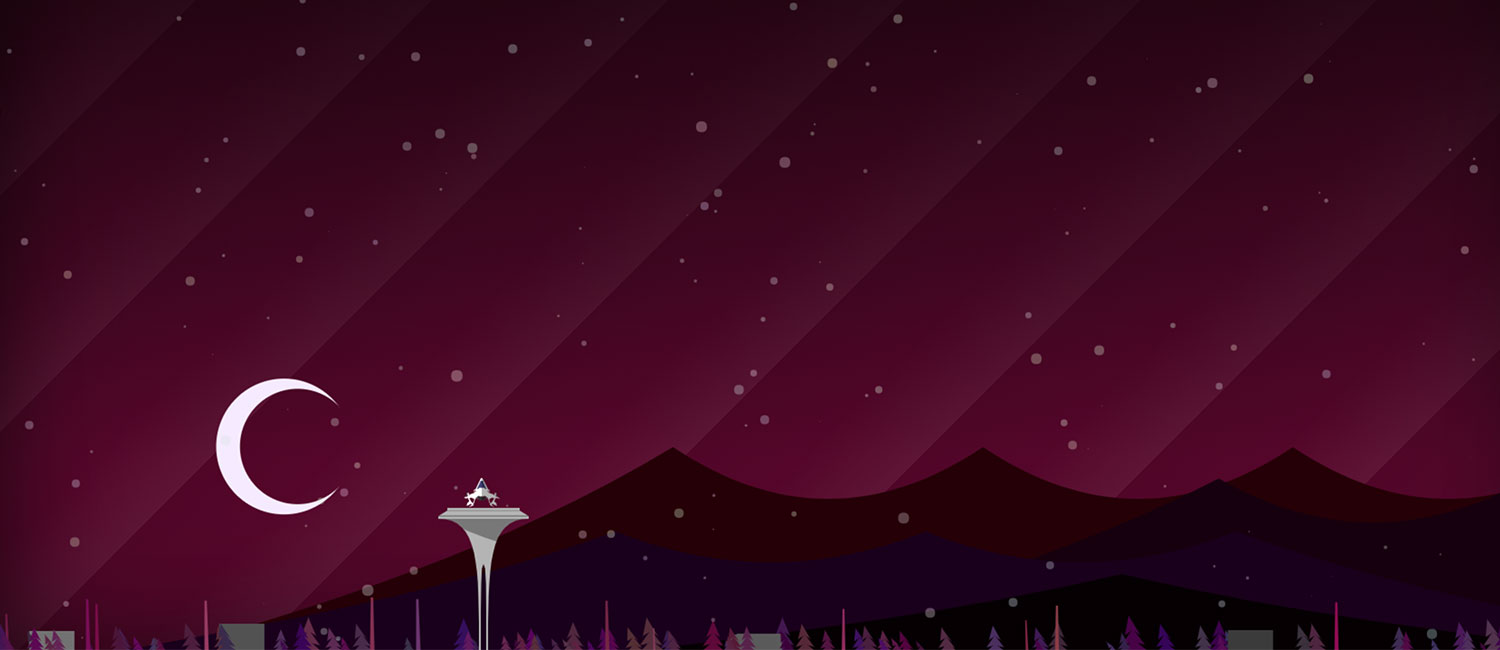
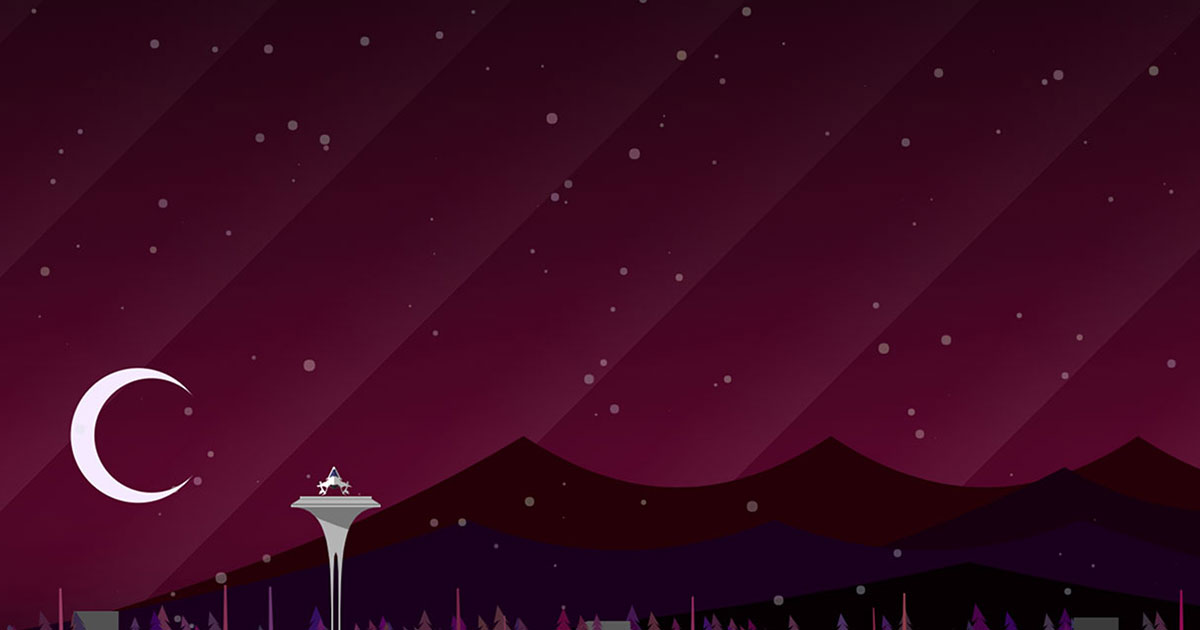
Make post header images same size

diff --git a/content/art/short-story/24-hours-of-silence.md b/content/art/short-story/24-hours-of-silence.md
@@ -5,23 +5,23 @@ date: 2018-09-11T17:57:09+09:00
 publishDate: 2018-09-11T17:57:09+09:00
 draft: false
 categories:
-- Science Fiction
+  - Science Fiction
 tags:
-- Ship systems
-- Space ships
+  - Ship systems
+  - Space ships
 motifs:
-- Space ships
-- Darkness
-- Silence
+  - Space ships
+  - Darkness
+  - Silence
 themes:
-- Loneliness
-- Isolation
-- Silence
-- Madness
+  - Loneliness
+  - Isolation
+  - Silence
+  - Madness
 colors:
 techniques:
 comments: true
-headerimage_src: /img/art/short-story/24-hours-of-silence.jpg
+headerimage_src: /img/art/short-story/header-24-hours-of-silence.jpg
 headerimage_credit:
 headerimage_credit_url:
 headerimage_description: A starfield

diff --git a/content/art/illustration/before-the-stone-god.md b/content/art/illustration/before-the-stone-god.md
@@ -25,7 +25,7 @@ techniques:
   - Halftone
   - Collage
 comments: true
-headerimage_src: /img/art/illustration/before-the-stone-god-header.jpg
+headerimage_src: /img/art/illustration/header-before-the-stone-god.jpg
 headerimage_credit:
 headerimage_credit_url:
 headerimage_description: A close-up of the main artwork.
